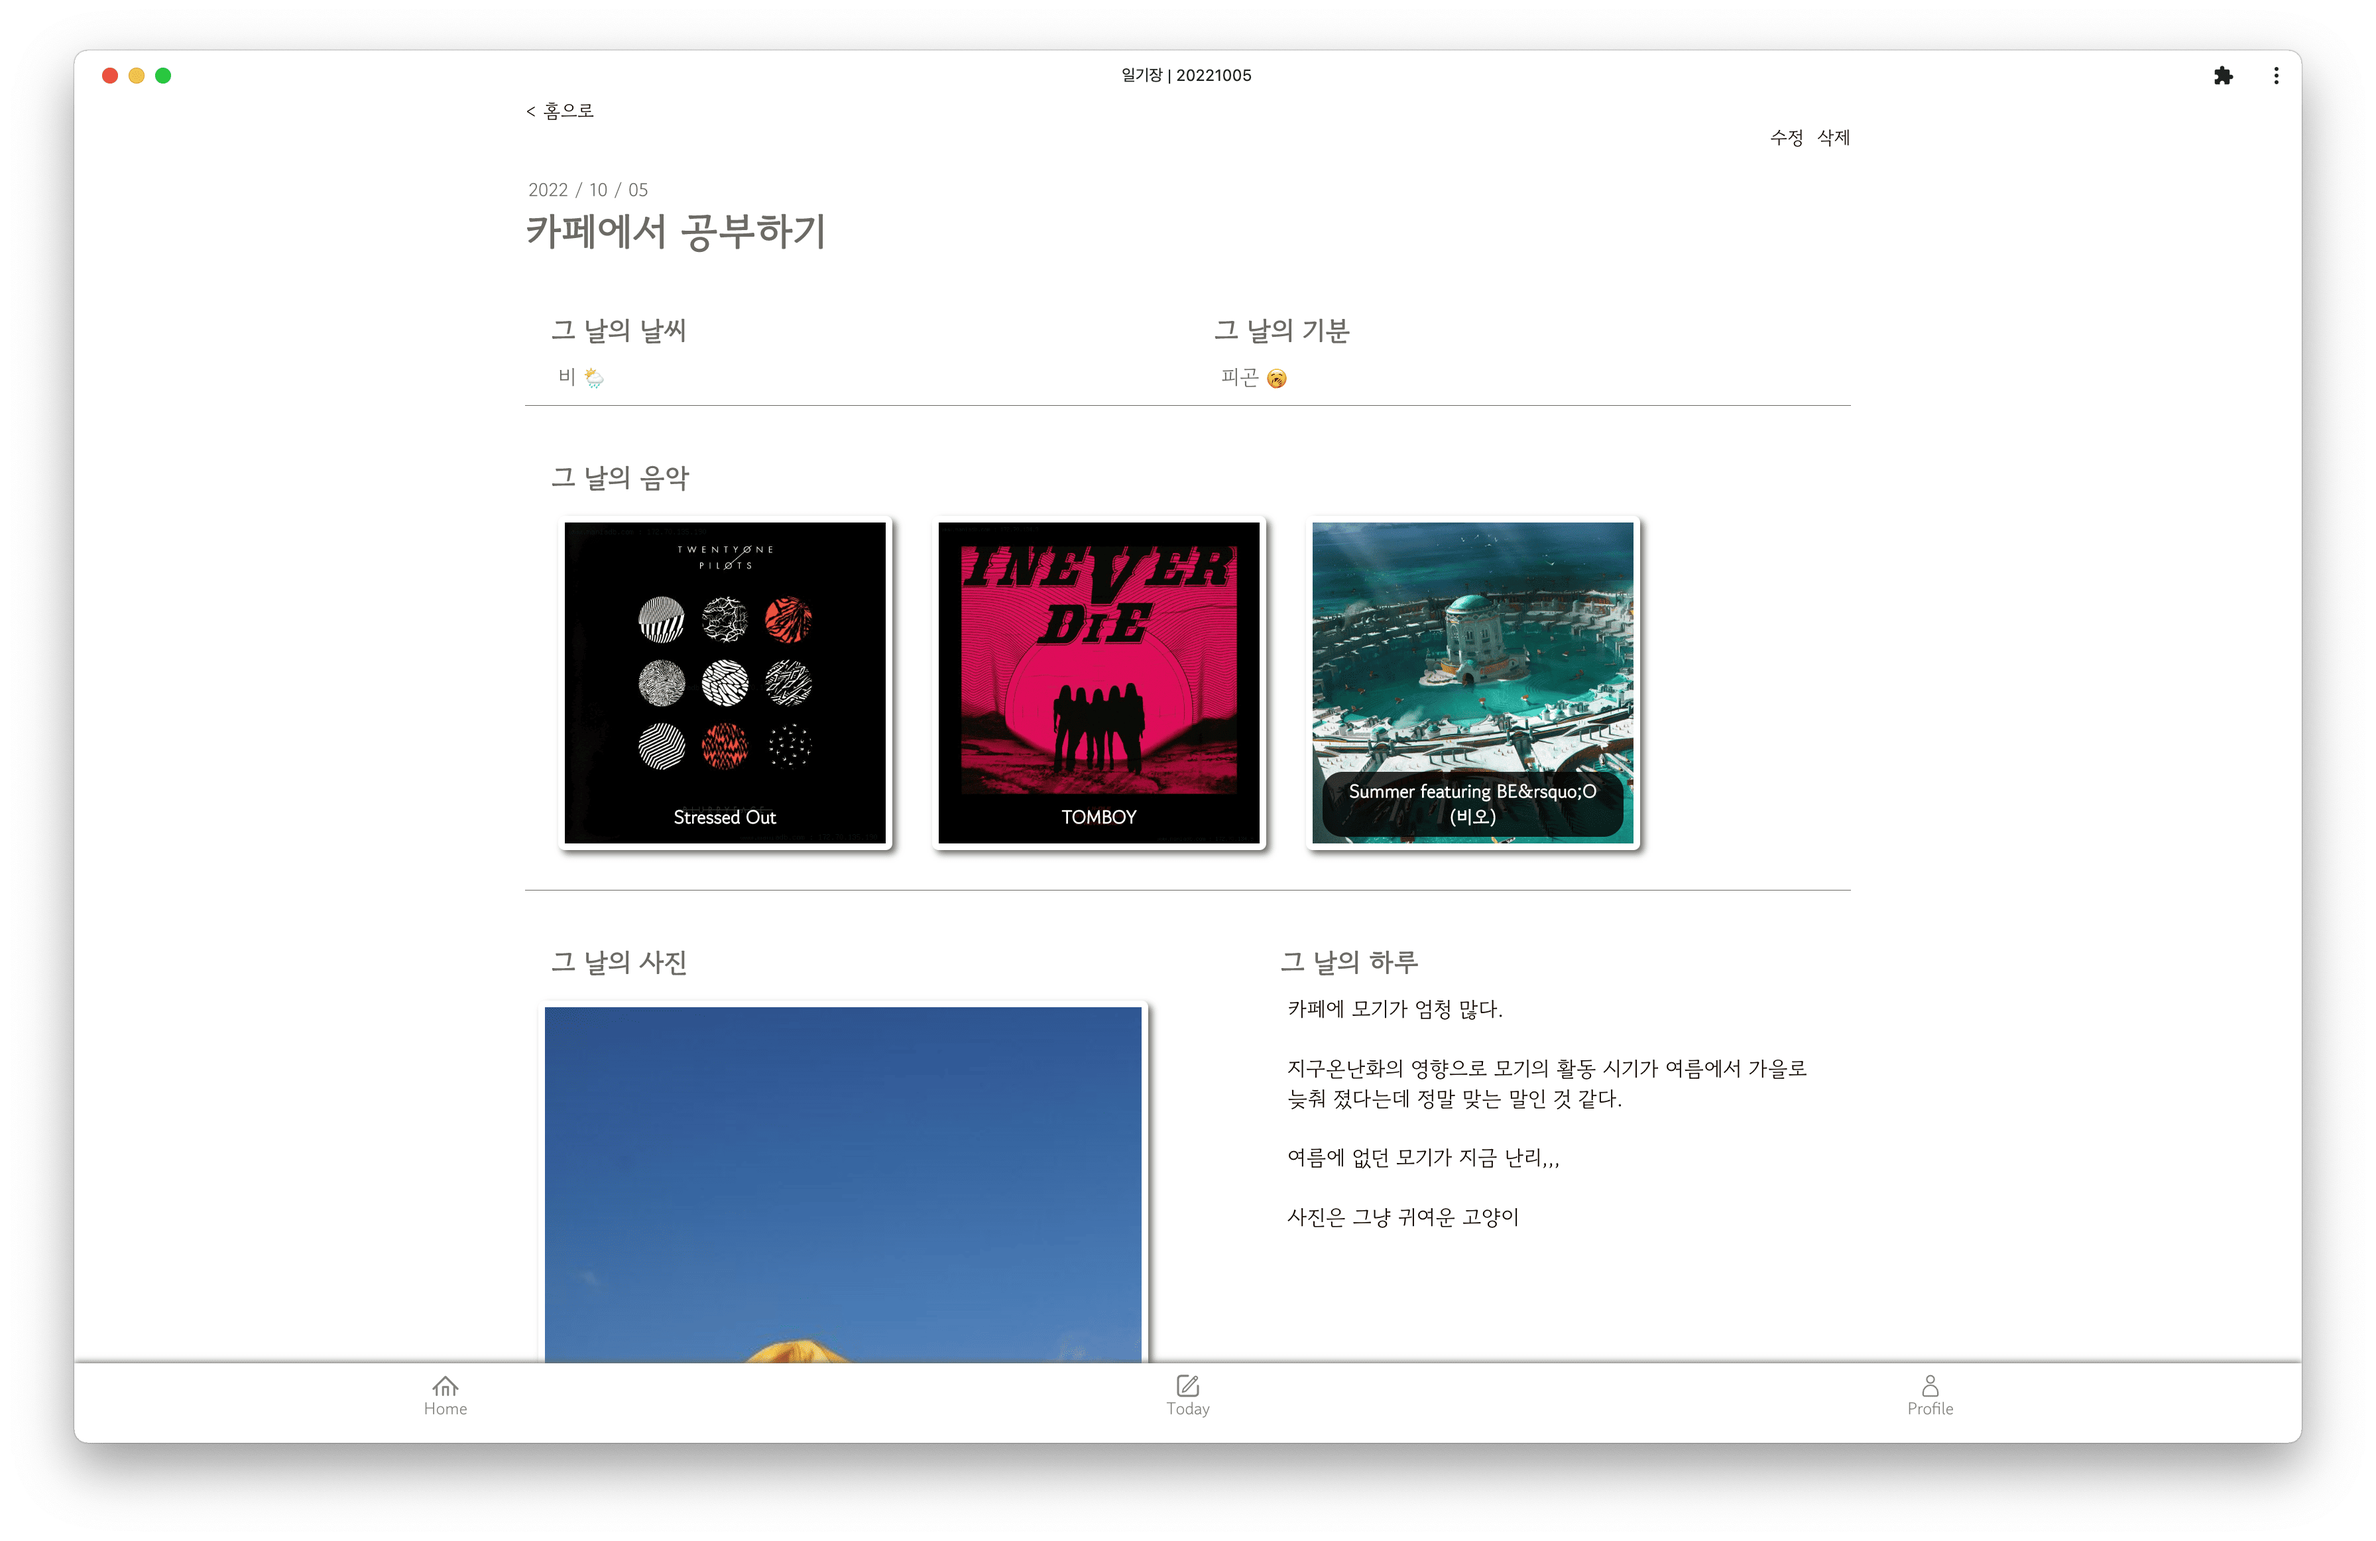
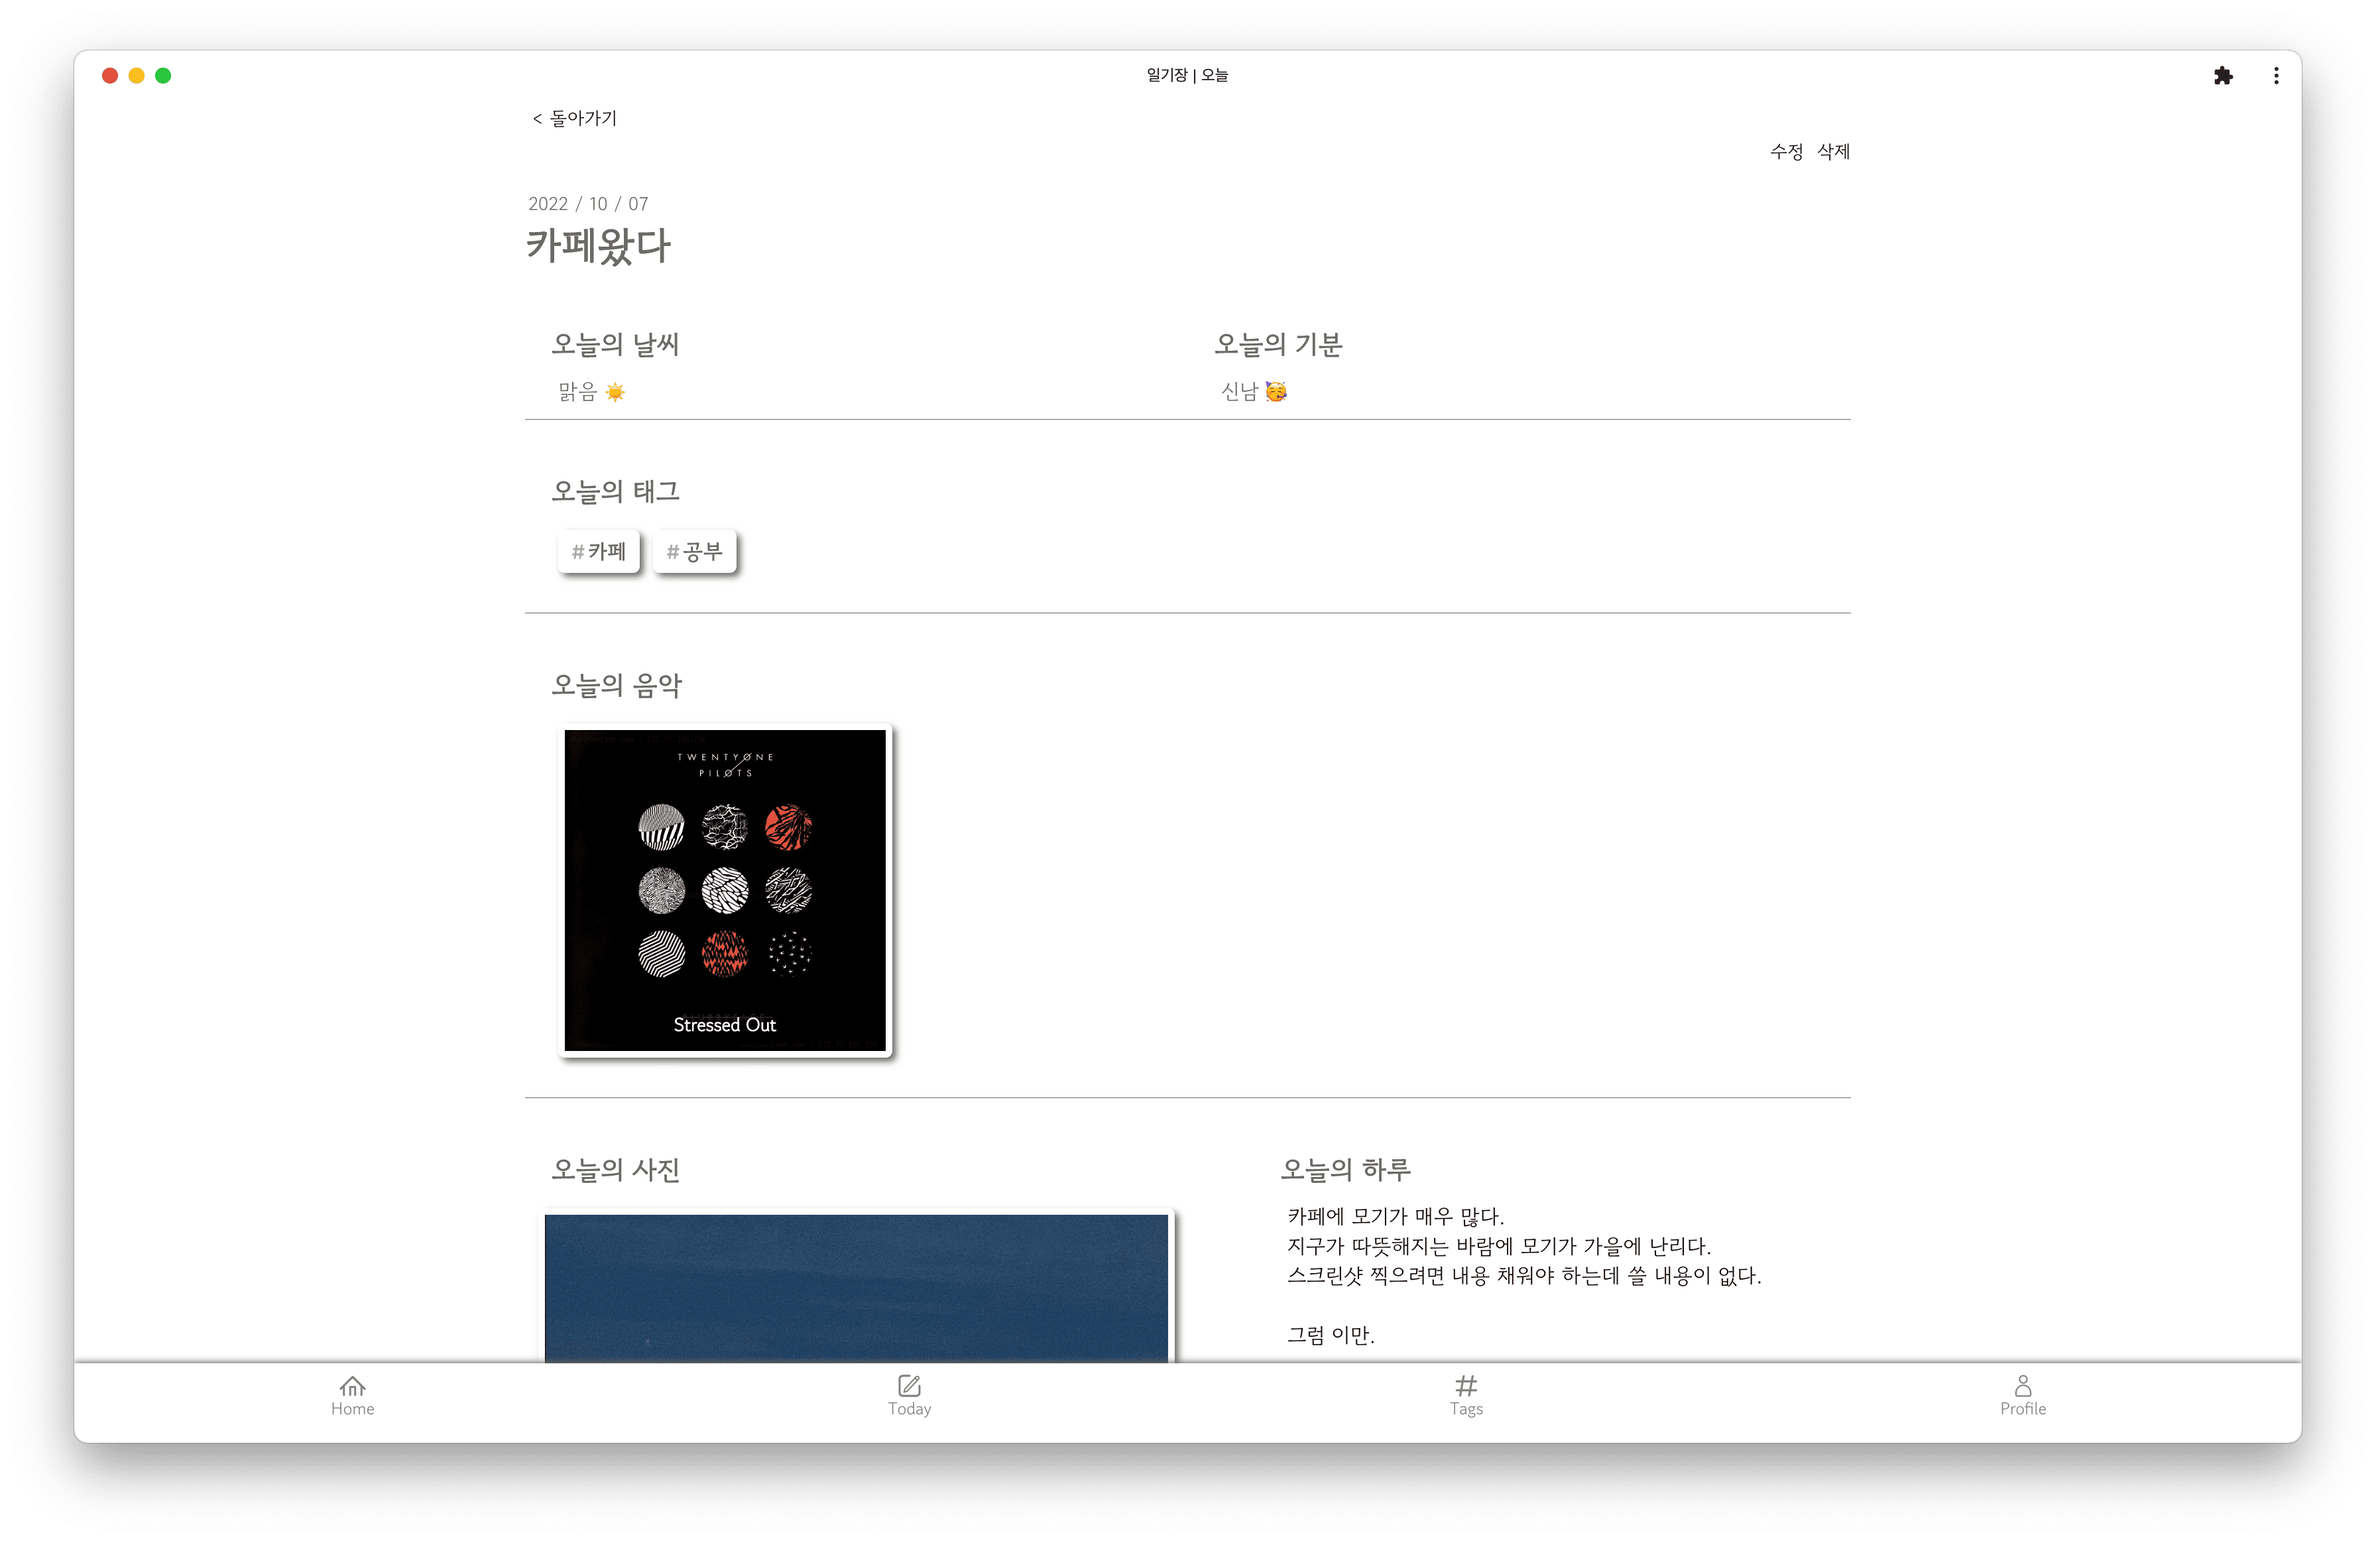
Update contents of the diary

diff --git a/sections/diary.ts b/sections/diary.ts
@@ -2,7 +2,7 @@ import { sectionDataType } from "../types";
 import img1 from "../public/screenshots/diary-calendar.png";
 import img2 from "../public/screenshots/diary-diary.png";
 import img3 from "../public/screenshots/diary-write.png";
-import img4 from "../public/screenshots/diary-period.png";
+import img4 from "../public/screenshots/diary-tags.png";
 import img5 from "../public/screenshots/diary-responsive.png";
 
 const data: sectionDataType = {
@@ -18,7 +18,7 @@ const data: sectionDataType = {
     headCount: 1,
   },
   description:
-    "하루를 기록하는 일기장 웹 애플리케이션입니다.\n설치 가능한 PWA로 개발하였으며 Next.js를 활용한 첫 프로젝트입니다.\n처음 생각과는 다르게 달력 알고리즘을 작성한 부분이 가장 재밌었던 프로젝트입니다. 공휴일 API도 활용하여 달력에서 공휴일을 구분할 수 있도록 하였습니다.\n또한 영화 API와 음악 API를 활용해 그 날의 영화와 음악을 검색하여 추가할 수 있도록 하였습니다.",
+    "하루를 기록하는 일기장 웹 애플리케이션입니다.\n설치 가능한 PWA로 개발하였으며 Next.js를 활용한 첫 프로젝트입니다.\n처음 생각과는 다르게 달력 알고리즘을 작성한 부분이 가장 재밌었던 프로젝트입니다.\n공휴일, 영화, 음악 API를 활용해 다양한 기능을 추가하였습니다.\n또한 태그 기능을 구현하여 태그에 해당하는 일기를 모아볼 수 있도록 하였습니다.",
   skills: [
     "HTML",
     "TypeScript",
